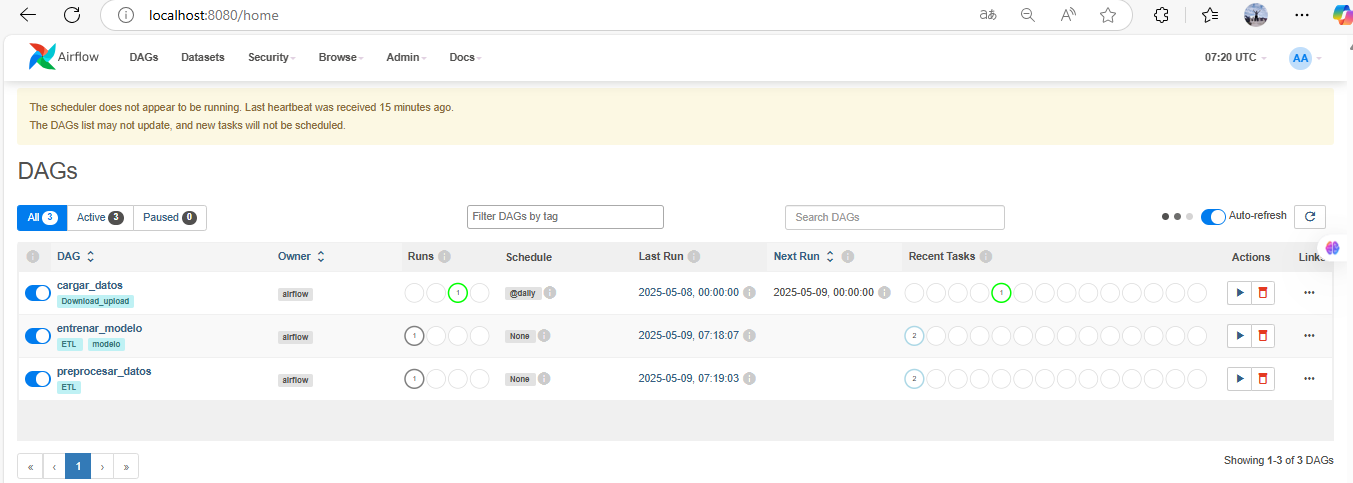
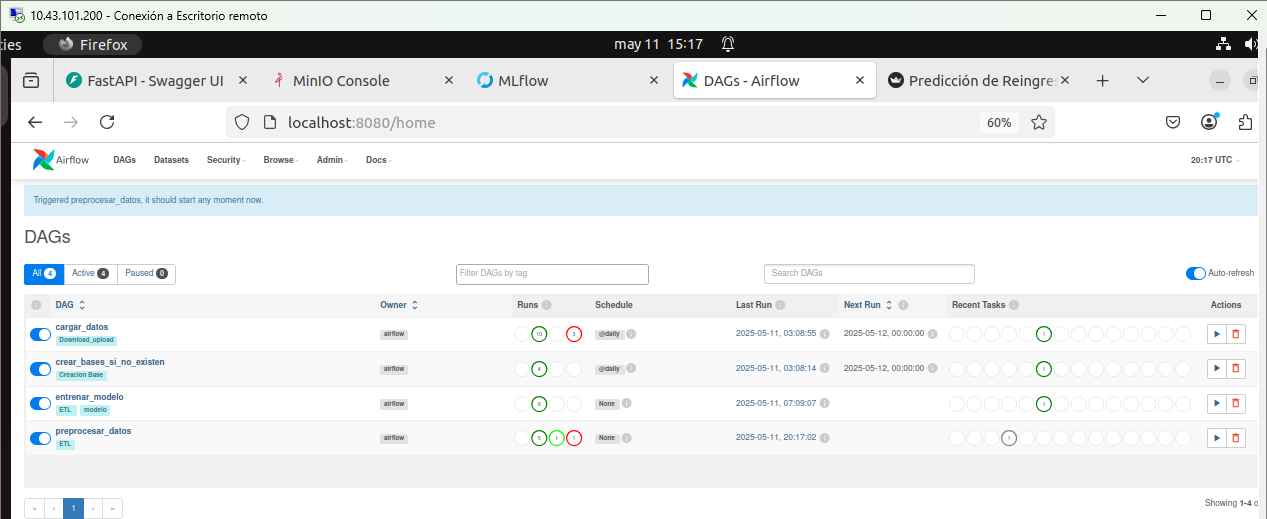
Actualización de Readme y servicios funcionando

diff --git a/connections/mysql_connections.py b/connections/mysql_connections.py
@@ -6,5 +6,8 @@ PASSWORD = 'Compaq*87'
 #engine_raw_data = create_engine(f'mysql+pymysql://root:{PASSWORD}@localhost:3306/RAW_DATA')
 #engine_clean_data = create_engine(f'mysql+pymysql://root:{PASSWORD}@localhost:3306/CLEAN_DATA')
 
-engine_raw_data = create_engine(f'mysql+pymysql://root:{PASSWORD}@10.43.101.200:8082/RAW_DATA')
-engine_clean_data = create_engine(f'mysql+pymysql://root:{PASSWORD}@10.43.101.200:8082/CLEAN_DATA')
+#engine_raw_data = create_engine(f'mysql+pymysql://root:{PASSWORD}@10.43.101.200:8082/RAW_DATA')
+#engine_clean_data = create_engine(f'mysql+pymysql://root:{PASSWORD}@10.43.101.200:8082/CLEAN_DATA')
+
+engine_raw_data = create_engine(f'mysql+pymysql://root:{PASSWORD}@mysql:3036/RAW_DATA')
+engine_clean_data = create_engine(f'mysql+pymysql://root:{PASSWORD}@mysql:3036/CLEAN_DATA')

diff --git a/app_front/app.py b/app_front/app.py
@@ -7,7 +7,7 @@ import pandas as pd
 
 st.set_page_config(page_title="Predicción de Reingreso", layout="wide")
 st.title("Sistema de Predicción de Reingreso Hospitalario")
-API_URL = "http://10.43.101.200:8000/predict"
+API_URL = "http://api_backend:8000/predict"
 
 st.markdown("## Formulario de Evaluación del Paciente")
 with st.form("formulario_prediccion"):

diff --git a/README.md b/README.md
@@ -1,6 +1,16 @@
 # Proyecto 3 - MLOps (Fase Local)
 
-Este proyecto implementa una arquitectura básica de MLOps de manera local para el procesamiento de datos, entrenamiento y predicción de un modelo de clasificación, utilizando FastAPI y almacenamiento en MySQL.
+Este proyecto implementa una solución completa de MLOps que automatiza el proceso de entrenamiento, despliegue y consumo de un modelo de machine learning para predecir la probabilidad de que un paciente sea readmitido en un hospital. Utiliza un enfoque modular basado en contenedores con Docker y herramientas modernas como Apache Airflow, MLflow, MinIO, FastAPI y Streamlit.
+
+  - **Características principales**
+
+        - Automatización del flujo de trabajo de datos con Airflow, desde la carga hasta el entrenamiento por lotes.
+        - Entrenamiento de modelos por batch y selección automática del mejor modelo con métricas como F1-score.
+        - Registro y versionado de modelos en MLflow y almacenamiento de artefactos en MinIO como backend S3.
+        - API REST construida con FastAPI que permite servir el modelo en producción.
+        - Interfaz de usuario interactiva desarrollada con Streamlit para simular casos de pacientes y consumir el modelo.
+        - Persistencia de predicciones en base de datos MySQL para trazabilidad y análisis posterior.
+        - Contenerización de todos los servicios mediante Docker Compose para fácil orquestación y despliegue local.
 
 ---
 
@@ -9,58 +19,62 @@ Este proyecto implementa una arquitectura básica de MLOps de manera local para 
 ```text
 Proyecto_3/
 │
-├── app_back/                      # Backend con FastAPI
-│   └── main.py                    # Endpoints de carga, procesamiento, entrenamiento y predicción
+├── app_back/                              # Backend con FastAPI
+│   ├── main.py                            # Endpoints de predicción conectados a MLflow y MySQL
+│   ├── dockerfile_api.py                  # Dockerfile de la API FastAPI
+│   └── requirements_api.txt               # Dependencias de FastAPI
 │
-├── app_front/                     # Interfaz Streamlit (opcional)
-│   └── app.py
+├── app_front/                             # Interfaz de usuario con Streamlit
+│   ├── app.py                             # App de Streamlit para ingresar datos y consumir la API
+│   ├── dockerfile_app.py                  # Dockerfile para la interfaz de usuario
+│   └── requirements_app.txt               # Dependencias de Streamlit
 │
-├── connections/                   # Configuración de conexión a MySQL (RAW y CLEAN)
+├── connections/                           # Configuración de conexión a bases de datos MySQL
 │   ├── __init__.py
 │   └── mysql_connections.py
 │
-├── dags/                          # Scripts de procesamiento, carga y entrenamiento (para Airflow)
-│   ├── carga_datos.py             # Inserta datos crudos en RAW
-│   ├── preprocesar_datos.py       # Procesa datos y los guarda por lotes en CLEAN
-│   └── train_model.py             # Entrena modelos por lote, guarda métricas y el mejor modelo
+├── dags/                                  # Scripts usados por Apache Airflow
+│   ├── carga_datos.py                     # Inserta datos crudos en base RAW
+│   ├── preprocesar_datos.py               # Procesa los datos y los guarda por lotes en CLEAN
+│   └── train_model.py                     # Entrena modelos, guarda métricas, y registra el mejor en MLflow
 │
-├── data/Diabetes/                 # Dataset original
+├── data/Diabetes/                         # Dataset original
 │   └── Diabetes.csv
 │
-├── mlflow/                        # Configuración de MLflow
-│   ├── dockerfile_mlflow          # Dockerfile para servidor MLflow
-│   └── requirements_mlflow.txt    # Requerimientos específicos de MLflow
+├── mlflow/                                # Configuración del servidor MLflow
+│   ├── dockerfile_mlflow                  # Dockerfile para MLflow
+│   ├── init.sql                           # Script de inicialización de base de datos para MLflow
+│   └── requirements_mlflow.txt            # Requerimientos específicos para MLflow
 │
-├── minio/                         # Carpeta montada por MinIO para almacenamiento S3
+├── minio/                                 # Carpeta montada por MinIO para almacenar artefactos de MLflow
 │   └── (se llena en tiempo de ejecución)
 │
-├── models/                        # Modelos serializados entrenados
+├── models/                                # Modelos entrenados y serializados
 │   ├── modelo_entrenado_batch1.pkl
 │   ├── modelo_entrenado_batch2.pkl
 │   ├── modelo_entrenado_batch3.pkl
 │   ├── modelo_entrenado_batch4.pkl
 │   ├── modelo_entrenado_batch5.pkl
 │   ├── modelo_entrenado_batch6.pkl
-│   └── modelo_entrenado_final.pkl  # Mejor modelo según métrica definida
+│   └── modelo_entrenado_final.pkl         # Mejor modelo identificado y registrado en MLflow
 │
-├── imagenes/                      # Recursos gráficos
+├── imagenes/                              # Recursos gráficos para documentación
 │   ├── arquitectura.png
-│   └── Front_Streamlit.png
-│   └── Airflow.png
-│   └── MlFlow.png
-│   └── Minio.png
+│   ├── Front_Streamlit.png
+│   ├── Airflow.png
+│   ├── MlFlow.png
+│   ├── Minio.png
 │   └── Arquitectura del proyecto.png
 │
-│
-├── logs/                          # Logs generados por las ejecuciones de Airflow o el sistema
+├── logs/                                  # Logs generados por Airflow y el sistema
 │   └── ...
 │
-├── plugins/                       # (Opcional) Plugins de Airflow si se usan
+├── plugins/                               # (Opcional) Plugins de Airflow si se utilizan
 │
-├── docker-compose.yml            # Orquestación de servicios: Airflow, MLflow, MinIO, MySQL, etc.
-├── dockerfile                    # Dockerfile general
-├── requirements.txt              # Dependencias globales del proyecto
-└── .README.md                     # Documentación del proyecto
+├── docker-compose.yml                     # Orquestación de servicios: Airflow, MLflow, MinIO, MySQL, etc.
+├── dockerfile                             # Dockerfile base del entorno
+├── requirements.txt                       # Dependencias globales del proyecto
+└── README.md                              # Documentación del proyecto
 
 ```
 
@@ -68,12 +82,11 @@ Proyecto_3/
 
 
 - **Carga de datos**  
-  Inserta datos crudos en la tabla `initial_data` del esquema `raw_data`.
+  La etapa de carga de datos del proyecto se encarga de descargar automáticamente el conjunto de datos original desde una URL externa (específicamente desde Google Drive) y almacenarlo en la base de datos RAW_DATA. El archivo solo se descarga si no existe previamente en el directorio local ./data/Diabetes, y se valida que no esté vacío antes de procesarlo. Si las bases de datos RAW_DATA y CLEAN_DATA no existen, son creadas automáticamente mediante SQLAlchemy. Posteriormente, los datos se insertan en la tabla initial_data del esquema RAW_DATA. Si la tabla no existe, se crea con base en la estructura del archivo CSV; si ya existe, su contenido se limpia antes de insertar los nuevos registros. Todo este flujo es gestionado por dos DAGs de Airflow: uno que verifica y crea las bases de datos (crear_bases_si_no_existen) y otro que realiza la descarga e inserción del archivo (cargar_datos). Esto garantiza un proceso de ingesta robusto, automatizado y preparado para actualizaciones diarias.
 
-- **Preprocesamiento**  
-  Limpia los datos, elimina columnas irrelevantes, transforma variables categóricas y divide el dataset en conjuntos de `entrenamiento`, `validación` y `prueba`. La siguiente función fue definida para que se tomen los datasets de entrenamiento, validación y prueba generados tras el preprocesamiento, y los almacena en la base de datos `CLEAN_DATA` en tres tablas: `train_data`, `val_data` y `test_data`.
+- **Preprocesamiento**
 
-  El dataset de entrenamiento se divide en lotes (`batches`) del tamaño especificado (por defecto 15,000 registros) para permitir un procesamiento más controlado. Cada lote es almacenado en la tabla `train_data` con una columna adicional llamada `batch_id` que indica a qué lote pertenece cada registro.
+  La etapa de preprocesamiento transforma los datos crudos almacenados en la tabla initial_data de la base RAW_DATA en un conjunto de datos limpio, estructurado y dividido en subconjuntos para entrenamiento, validación y prueba. Este proceso incluye la eliminación de columnas irrelevantes o con muchos valores nulos, la imputación de valores faltantes con la moda de cada categoría, el reemplazo de valores inconsistentes, la transformación de edades de rangos a valores numéricos y la recodificación de variables categóricas como tipo de admisión, alta y fuente de ingreso. Además, se eliminan registros con género no válido y columnas identificadoras como encounter_id y patient_nbr. Luego, los datos se dividen usando train_test_split y se almacenan en la base CLEAN_DATA en tres tablas: train_data, val_data y test_data. La tabla train_data se divide en lotes identificados con una columna batch_id para permitir un entrenamiento por etapas. Todo este flujo es orquestado por el DAG de Airflow preprocesar_datos, que ejecuta automáticamente estas tareas al ser invocado
 
   #### Código:
 
@@ -104,77 +117,127 @@ Proyecto_3/
           print(f"Error al almacenar en CLEAN_DATA: {e}")
           raise e
   ```
-- **Entrenamiento del modelo**  
-  Entrena múltiples modelos `RandomForestClassifier` (uno por cada batch) usando `Pipeline` de `scikit-learn`, guarda cada uno como `modelo_entrenado_batch{n}.pkl`, registra sus métricas (`accuracy`, `precision`, `recall`, `f1-score`) en la tabla `clean_data.experiments` y selecciona el mejor modelo basado en `val_f1`, copiándolo como `modelo_entrenado_final.pkl`.
+- **Entrenamiento del modelo** 
 
-- **Predicción vía API**  
-  Utiliza el modelo `modelo_entrenado_final.pkl` para predecir nuevas muestras y guarda las predicciones con sus probabilidades en `raw_data.predictions`.
+  La etapa de entrenamiento se encarga de construir modelos de predicción utilizando los datos procesados y almacenados previamente en la base CLEAN_DATA. Para ello, se entrena un modelo RandomForestClassifier por cada lote (batch_id) presente en la tabla train_data, utilizando un pipeline de preprocesamiento que normaliza las variables numéricas con StandardScaler y codifica las variables categóricas con OneHotEncoder. Cada modelo se evalúa utilizando métricas de desempeño (precisión, recall, f1-score y accuracy) sobre los conjuntos de validación y prueba (val_data y test_data), y sus resultados se registran en la tabla experiments en la base de datos. Además, se serializa cada modelo por lote y se guarda como artefacto en MLflow. Finalmente, se selecciona automáticamente el mejor modelo según la métrica val_f1, se guarda con el nombre modelo_entrenado_final.pkl, se registra oficialmente en el Model Registry de MLflow con el nombre mejor_modelo_diabetes, y se promueve al stage de Production para ser consumido desde una API. Todo este proceso es gestionado automáticamente por el DAG entrenar_modelo de Airflow.
+
+- **Predicción vía API** 
+
+  Esta etapa corresponde al despliegue del modelo a producción mediante una API construida con FastAPI. El archivo expuesto configura una aplicación backend que permite recibir datos de pacientes, realizar predicciones sobre su posible reingreso hospitalario y registrar los resultados en una base de datos. Al iniciar, la API se conecta al servidor de MLflow y al repositorio de artefactos en MinIO para cargar la versión del modelo en estado Production, registrado previamente como mejor_modelo_diabetes. La clase InputData define el esquema de entrada validado mediante Pydantic, y el endpoint /predict expone el modelo a solicitudes HTTP POST. Cuando se recibe una solicitud, los datos del paciente son transformados en un DataFrame, enviados al modelo para predecir si el paciente será readmitido, y, si el modelo lo permite, se calcula además la probabilidad de reingreso. Los resultados, junto con la predicción y la marca de tiempo, se almacenan en la tabla predictions del esquema RAW_DATA. Esta solución convierte el modelo en un servicio accesible para integraciones externas o herramientas de visualización como Streamlit.
+
+  - **API REST con FastAPI**  
+      Permite ejecutar cada etapa del flujo mediante endpoints y el servicio está expuesto en el puerto `8080`. 
+      http://10.43.101.200:8000/docs
+
+        | Endpoint        | Acción                                                   |
+        |----------------|----------------------------------------------------------|
+        | `/predict`      | Realiza predicciones usando el mejor modelo entrenado    |
+
+    ![Interfaz FastApi](imagenes/FastApi.png)
 
 - **Interfaz gráfica con Streamlit**  
-  Permite a los usuarios realizar predicciones desde un formulario web amigable, que se comunica con la API FastAPI para enviar datos y mostrar resultados.
+  la interfaz de usuario desarrollada con Streamlit, diseñada para interactuar fácilmente con el modelo de predicción de reingreso hospitalario. Desde el navegador, el usuario puede ingresar manualmente información clínica y demográfica del paciente mediante un formulario distribuido en tres columnas que agrupa variables como edad, género, diagnósticos, visitas médicas y características de admisión. Al enviar el formulario, los datos son empaquetados en formato JSON y enviados a un endpoint expuesto por la API FastAPI.
+
+  La respuesta del modelo es procesada de inmediato: muestra si el paciente será readmitido (Readmitido o No Readmitido), e incluye la probabilidad estimada de reingreso si el modelo lo permite. Adicionalmente, si la API devuelve información sobre el nombre y la versión del modelo cargado desde MLflow, estos datos también se muestran en la interfaz para mayor transparencia. Esta aplicación mejora la experiencia del usuario final al proporcionar un acceso claro, interactivo y visualmente amigable al sistema de predicción desplegado en producción.
+
+  el servicio está expuesto en el puerto `8501`. 
+  http://10.43.101.200:8501
 
   ![Interfaz Streamlit](imagenes/Front_Streamlit.png)
 
-- **API REST con FastAPI**  
-  Permite ejecutar cada etapa del flujo mediante endpoints:
-
-| Endpoint        | Acción                                                   |
-|----------------|----------------------------------------------------------|
-| `/predict`      | Realiza predicciones usando el mejor modelo entrenado    |
-
-  ![Interfaz FastApi](imagenes/FastApi.png)
-
 - **Airflow**  
 
-Airflow se encarga de orquestar las tareas del flujo ETL y entrenamiento. Se ha implementado con Docker Compose y se compone de los siguientes DAGs:
+Airflow se encarga de orquestar el flujo completo del proceso y el entrenamiento de modelos. Se ha implementado mediante Docker Compose y está conformado por los siguientes DAGs:
 
-  - `cargar_datos`: descarga un dataset CSV desde Google Drive y lo inserta en MySQL en la Base `ROW_DATA`.
-  - `preprocesar_datos`: limpia y transforma los datos, y los guarda en la base `CLEAN_DATA`.
-  - `train_model`: entrena varios modelos por lotes y selecciona el mejor usando `RandomForest`.
+  * cargar_datos: descarga un archivo CSV desde Google Drive y lo inserta en la base de datos RAW_DATA de MySQL.
+  * preprocesar_datos: realiza la limpieza y transformación de los datos, y los almacena por lotes en la base CLEAN_DATA.
+  * train_model: entrena múltiples modelos por lote utilizando RandomForestClassifier y selecciona automáticamente el mejor según la métrica val_f1 registrándolo en MLflow.
 
-  **Configuraciones destacadas**:
-  - Los DAGs se ejecutan en orden gracias a `ExternalTaskSensor`.
-  - Se utilizan `PythonOperator` para ejecutar funciones personalizadas.
-  - Airflow usa MySQL como backend.
-  - El servicio está expuesto en el puerto `8080`.
+El servicio de Airflow está expuesto en el puerto 8080, accesible desde la siguiente URL: http://10.43.101.200:8080/home
 
   ![Airflow](imagenes/Ariflow.png)
 
-- **Minio**  
-MinIO actúa como almacenamiento tipo S3 para MLflow.
 
-  - Se expone la consola de MinIO en el puerto `8083`.
-  - Se creó un bucket llamado `mlflows3`.
-  - MLflow puede subir automáticamente modelos `.pkl` y archivos al bucket.
-  - El servicio está expuesto en el puerto `8083`.
+- **Minio**  
+#
+
+
+MinIO funciona como un servicio de almacenamiento tipo S3 compatible, utilizado por MLflow para guardar modelos entrenados y otros artefactos.
+
+  * Se ha configurado un bucket llamado mlflows3, donde MLflow almacena automáticamente modelos .pkl y archivos asociados a cada experimento.
+  * La consola web de MinIO está disponible en el puerto 8083 y permite visualizar los objetos almacenados.
+
+El servicio está disponible en: http://10.43.101.200:8083
 
   ![Minio](imagenes/minio.png)
 
 - **MlFlow**  
 
-MLflow gestiona el tracking de los experimentos y almacenamiento de modelos. Se configuró de la siguiente forma:
+MLflow se encarga de gestionar el seguimiento de experimentos (tracking), almacenamiento de métricas, parámetros, artefactos y versiones de modelos.
 
-  - Usando `mysql` como `backend-store-uri` para guardar metadata de experimentos.
-  - Usando `MinIO` como almacenamiento de artefactos (`--default-artifact-root s3://mlflows3`).
-  - Se configuró un contenedor `mlflow_server` en Docker Compose.
-  - El servicio está expuesto en el puerto `8084`.
-  - Asi mismo se creo un archivo init.SQL que solo se ejecuta  si el volumen está vacío 
-
-```
--- ./mysql-init/init.sql
-CREATE DATABASE IF NOT EXISTS mlflow;
-```
-
-
+  * Se configuró el contenedor mlflow_server en Docker Compose.
+  * Utiliza MySQL como backend-store-uri para guardar la metadata de los experimentos.
+  * Emplea MinIO como almacenamiento de artefactos, usando el bucket mlflows3 (--default-artifact-root s3://mlflows3).
+  * El servicio de MLflow está expuesto en el puerto 8084 y se puede acceder desde:   http://10.43.101.200:8084
+  * Se incluyó un archivo init.sql para inicializar la base de datos solo cuando el volumen de MySQL está vacío, asegurando una configuración idempotente del entorno.
+    ```
+    -- ./mysql-init/init.sql
+    CREATE DATABASE IF NOT EXISTS mlflow;
+    ```
   ![MlFlow](imagenes/mlflow.png)
 ---
 
-## 🧰 Requisitos y Puesta en Marcha
+## 🛠 Puesta en Marcha del Proyecto
 
-Sigue estos pasos para ejecutar el proyecto localmente:
+Esta sección describe los pasos necesarios para levantar todo el ecosistema del sistema de predicción de readmisión hospitalaria en un entorno local mediante Docker Compose.
+
+### 1. Clonar el Repositorio
 
 ```bash
-# 1. Clonar el repositorio
-git clone git@github.com:JohnSanchez27/MLOPS_Proyectos_3.git
-cd MLOPS_Proyectos_3
+    git clone https://github.com/tu-usuario/proyecto_3.git
+    cd proyecto_3
 ```
+
+### 2 . Verificar Archivos .env y Variables
+
+Asegúrese de que las siguientes variables estén bien definidas en el entorno o dentro del docker-compose.yml:
+```bash
+    export MLFLOW_S3_ENDPOINT_URL=http://minio:9000
+    export AWS_ACCESS_KEY_ID=admin
+    export AWS_SECRET_ACCESS_KEY=supersecret
+```
+### 3. Levantar los Servicios
+Ejecuta el siguiente comando para construir y levantar todos los servicios:
+```bash
+    docker-compose up --build -d
+```
+Esto desplegará los siguientes contenedores:
+
+  * Airflow (Scheduler, Webserver, Worker, Triggerer, Init)
+  * MySQL
+  * MinIO
+  * MLflow
+  * FastAPI (Backend de predicción)
+  * Streamlit (Frontend para usuarios)
+
+### 4.  Ejecutar los DAGs en Airflow
+
+Para ejecutar el pipeline completo:
+
+- Ingresa a la interfaz de Airflow: http://10.43.101.200:8080
+- Activa y ejecuta los DAGs en el siguiente orden:
+
+  * Primero activa y lanza el DAG crear_bases_si_no_existen.
+  * Luego, ejecuta el DAG cargar_datos.
+  * Después, ejecuta preprocesar_datos.
+  * Finalmente, ejecuta entrenar_modelo para entrenar y registrar el mejor modelo.
+
+Esto descargará el dataset, lo insertará en la base RAW_DATA, realizará la transformación y lo almacenará en CLEAN_DATA. Luego entrenará modelos por lote, evaluará y seleccionará el mejor, registrándolo automáticamente en MLflow.
+
+### 5. Uso del Sistema
+
+Una vez entrenado el modelo y cargado en MLflow, puedes hacer predicciones desde: Streamlit: desde una interfaz gráfica en http://localhost:8501, simulando pacientes y visualizando la probabilidad de readmisión.
+
+
+## ✅ Despliegue con kubernetes
+
